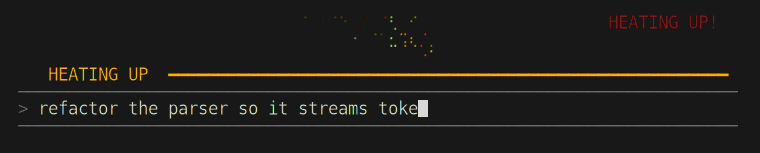
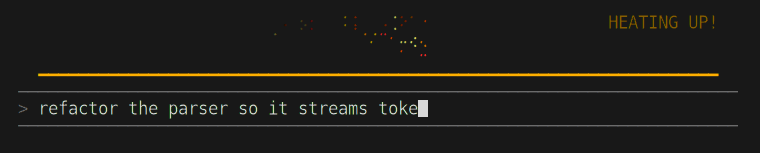
Bottom row is only the timer bar; the tier name is shouted on the right

diff --git a/hooks/register.tsx b/hooks/register.tsx
@@ -368,22 +368,17 @@ export const register: Register = (on, options) => {
       }
     }
 
-    // The last row: the tier's name (shaken on a hit), then the timer bar.
+    // The last row: the timer bar, jolted on a hit. The tier's name is shouted
+    // on the right as it is reached, so this row carries no words.
     if (combo > 0) {
       const base = spark * columns
-      const label = tier.name ? ` ${tier.name} ` : ''
       const shake = t < shakeUntil ? Math.round(Math.random() * 2) : 0
       const colors = colorsNow()
       const level =
         colors === RAINBOW
           ? (RAINBOW[Math.floor(t / 100) % RAINBOW.length] ?? 0xffffff)
           : (colors[Math.min(tierOf(combo), colors.length - 1)] ?? 0xffffff)
-      const at = clamp(1 + shake, 0, columns)
-      for (let c = 0; c < label.length && at + c < columns; c++) {
-        glyph[base + at + c] = label.charCodeAt(c)
-        fg[base + at + c] = level
-      }
-      const barStart = at + label.length + 1
+      const barStart = clamp(1 + shake, 0, columns)
       const barLength = Math.round(Math.max(0, columns - barStart - 1) * left)
       for (let c = 0; c < barLength; c++) {
         glyph[base + barStart + c] = BAR

diff --git a/tests/power-mode.test.tsx b/tests/power-mode.test.tsx
@@ -109,7 +109,7 @@ function spell(props: Record<string, unknown>): string {
   return out
 }
 
-test('the bottom row names the tier, not the count', async ($, on) => {
+test('reaching a tier shouts its name on the right; the bottom row is only the bar', async ($, on) => {
   const clock = engine(on)
   await $.session.start({ cwd: '/', surface: 'terminal', isInteractive: true })
 
@@ -117,10 +117,11 @@ test('the bottom row names the tier, not the count', async ($, on) => {
   await type($, 'x'.repeat(26))
   await clock.advance(33)
 
-  const raster = await ui.find({ key: 'sparks' })
-  const drawn = spell(raster!.props)
-  expect(drawn).toContain('HEATING UP')
-  expect(drawn).not.toContain('26')
+  const lines = spell((await ui.find({ key: 'sparks' }))!.props).split('\n')
+  expect(lines.join('\n')).toContain('HEATING UP!')
+  expect(lines[3]).not.toContain('HEATING UP')
+  expect(lines[3]).not.toContain('26')
+  expect(lines[3]).toContain('\u2501')
   await ui.unmount()
 })
 

diff --git a/README.md b/README.md
@@ -32,10 +32,9 @@ terminal only; elsewhere the mod stays out of the way.
 
 Every keystroke throws a handful of sparks up from the caret into a few rows above the
 prompt. They are braille dots, so they move at half-cell steps and fall back under
-gravity. Under them, a bar drains toward the combo timeout; once you reach a tier,
-its name sits beside the bar and shakes on each hit.
+gravity. Under them, a bar drains toward the combo timeout and jolts on each hit.
 
-![Typing a prompt: sparks rise off the caret and HEATING UP appears at 25](docs/demo/typing.gif)
+![Typing a prompt: sparks rise off the caret and HEATING UP! flashes at 25](docs/demo/typing.gif)
 
 The combo climbs through tiers, and each tier changes how the sparks behave:
 
@@ -45,13 +44,13 @@ The combo climbs through tiers, and each tier changes how the sparks behave:
 | 25 | HEATING UP | more sparks, faster |
 | 50 | ON FIRE | a row of flames that dies down as the timer runs out |
 | 100 | UNSTOPPABLE | some sparks burst into fireworks at the top of their arc |
-| 250 | GODLIKE | rainbow sparks, and the tier name cycles colors |
+| 250 | GODLIKE | rainbow sparks, and the bar cycles colors |
 
 ![ON FIRE: flames along the bottom row](docs/demo/on-fire.gif)
 ![UNSTOPPABLE: sparks burst into fireworks](docs/demo/unstoppable.gif)
 ![GODLIKE: rainbow sparks](docs/demo/godlike.gif)
 
-Crossing a tier shouts its name and sends a burst across the full width. Every 25 hits
+Crossing a tier shouts its name on the right and sends a burst across the full width. Every 25 hits
 in between earns an exclamation ("Radical!", "Stupendous!").
 
 **Pastes.** A paste of 100 characters or more is a blast: a white flash where you
